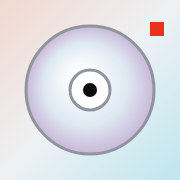
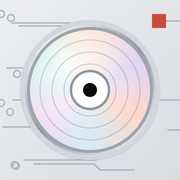
Add files via upload

diff --git a/index.html b/index.html
@@ -1964,11 +1964,33 @@ window.addEventListener('drop', e => { e.preventDefault(); if (e.dataTransfer &&
 document.addEventListener('visibilitychange', () => { if (!document.hidden && !audio.paused) wakeOn(); });
 function drawIcon(S) {
   const c = document.createElement('canvas'); c.width = c.height = S; const g = c.getContext('2d'); g.scale(S / 180, S / 180);
-  const bgG = g.createLinearGradient(0, 0, 180, 180); bgG.addColorStop(0, '#f1d9d0'); bgG.addColorStop(.5, '#eef1f4'); bgG.addColorStop(1, '#bfe6ee'); g.fillStyle = bgG; g.fillRect(0, 0, 180, 180);
-  const rg = g.createRadialGradient(80, 76, 8, 90, 90, 64); rg.addColorStop(0, '#ffffff'); rg.addColorStop(.6, '#dfe9f2'); rg.addColorStop(1, '#c9b8d8');
-  g.fillStyle = rg; g.beginPath(); g.arc(90, 90, 64, 0, 6.283); g.fill(); g.strokeStyle = '#8f959e'; g.lineWidth = 3; g.stroke();
-  g.fillStyle = '#fff'; g.beginPath(); g.arc(90, 90, 20, 0, 6.283); g.fill(); g.stroke(); g.fillStyle = '#0b0b0e'; g.beginPath(); g.arc(90, 90, 7, 0, 6.283); g.fill();
-  g.fillStyle = '#cb4a36'; g.fillRect(150, 22, 14, 14);
+  const bg = g.createLinearGradient(0, 0, 180, 180); bg.addColorStop(0, '#eceef1'); bg.addColorStop(1, '#d9dce1'); g.fillStyle = bg; g.fillRect(0, 0, 180, 180);
+  /* thin ZIIION-style traces and ring vias, like the original board */
+  g.strokeStyle = '#b3b8c0'; g.lineWidth = 1.5; g.lineCap = 'round'; g.lineJoin = 'round';
+  const tr = (pts, via) => { g.beginPath(); pts.forEach((q, i) => i ? g.lineTo(q[0], q[1]) : g.moveTo(q[0], q[1])); g.stroke(); if (via) { const q = pts[pts.length - 1]; g.beginPath(); g.arc(q[0], q[1], 3, 0, 6.283); g.stroke(); } };
+  tr([[12, 23], [75, 23]]); tr([[19, 26], [76, 26]]);
+  tr([[7, 68], [31, 68]]); tr([[13, 100], [32, 100]]); tr([[3, 127], [34, 127]]);
+  tr([[24, 160], [96, 160]]); tr([[34, 164], [94, 164], [100, 170], [134, 170]]);
+  tr([[166, 21], [180, 21]]);
+  const ring = (x, y) => { g.beginPath(); g.arc(x, y, 3.4, 0, 6.283); g.stroke(); };
+  ring(1, 14); ring(11, 18); ring(17, 74); ring(1, 103); ring(10, 112); ring(16, 166); ring(14.5, 165);
+  tr([[160, 100], [180, 100]]); tr([[168, 130], [180, 130]]);
+  /* bezel with soft halo, as in ZIIION */
+  g.save(); g.shadowColor = 'rgba(40,50,62,.28)'; g.shadowBlur = 10; g.shadowOffsetY = 3;
+  g.fillStyle = '#d3d6dc'; g.beginPath(); g.arc(90, 90, 70, 0, 6.283); g.fill(); g.restore();
+  const rim = g.createLinearGradient(40, 30, 140, 150); rim.addColorStop(0, '#fdfdfe'); rim.addColorStop(.5, '#8f959e'); rim.addColorStop(1, '#eef0f2');
+  g.fillStyle = rim; g.beginPath(); g.arc(90, 90, 65, 0, 6.283); g.fill();
+  g.fillStyle = '#9ea4ad'; g.beginPath(); g.arc(90, 90, 63, 0, 6.283); g.fill();
+  /* the disc: iridescent face, spindle hub */
+  const cg = g.createConicGradient ? g.createConicGradient(.5, 90, 90) : g.createLinearGradient(30, 30, 150, 150);
+  [['#ffd8c8', 0], ['#d4eaf6', .17], ['#f3dcf6', .34], ['#c9f0e8', .5], ['#ffe2d2', .67], ['#ded4f6', .84], ['#ffd8c8', 1]].forEach(([col, t]) => cg.addColorStop(t, col));
+  g.fillStyle = cg; g.beginPath(); g.arc(90, 90, 60, 0, 6.283); g.fill();
+  const hl = g.createRadialGradient(68, 64, 4, 80, 78, 62); hl.addColorStop(0, 'rgba(255,255,255,.75)'); hl.addColorStop(1, 'rgba(255,255,255,0)'); g.fillStyle = hl; g.beginPath(); g.arc(90, 90, 60, 0, 6.283); g.fill();
+  g.strokeStyle = 'rgba(120,128,140,.35)'; g.lineWidth = 1; for (const r of [26, 38, 50]) { g.beginPath(); g.arc(90, 90, r, 0, 6.283); g.stroke(); }
+  g.strokeStyle = '#8f959e'; g.lineWidth = 2.4; g.fillStyle = '#fff'; g.beginPath(); g.arc(90, 90, 19, 0, 6.283); g.fill(); g.stroke();
+  g.fillStyle = '#0b0b0e'; g.beginPath(); g.arc(90, 90, 7, 0, 6.283); g.fill();
+  g.strokeStyle = '#b3b8c0'; g.lineWidth = 1.5; g.beginPath(); g.moveTo(166, 21); g.lineTo(180, 21); g.stroke();
+  g.fillStyle = '#cb4a36'; g.fillRect(152, 14, 14, 14);
   return c;
 }
 

diff --git a/sw.js b/sw.js
@@ -1,5 +1,5 @@
 /* IRIDESCENT: tiny offline cache. Put next to index.html. */
-const C = 'iridescent-v25';
+const C = 'iridescent-v30';
 self.addEventListener('install', e => { e.waitUntil(caches.open(C).then(c => c.addAll(['./', './index.html', './manifest.webmanifest', './icons/icon-180.png', './icons/icon-512.png', './icons/icon-32.png'])).then(() => self.skipWaiting())); });
 self.addEventListener('activate', e => { e.waitUntil(caches.keys().then(ks => Promise.all(ks.filter(k => k !== C).map(k => caches.delete(k)))).then(() => self.clients.claim())); });
 self.addEventListener('fetch', e => {

diff --git a/README.md b/README.md
@@ -61,7 +61,7 @@ For offline use and installation, host the folder (for example on GitHub Pages) 
 
 ## Icon
 
-The home-screen icon is a simple iridescent disc with a white hub and a red accent square on a frosted gradient. It is drawn at runtime by the page; PNG exports are in `icons/` (512, 180, 32 px), and the manifest uses them.
+The home-screen icon is an iridescent disc in a bezel with a white hub and a red accent square, on a frosted board with thin PCB traces and ring vias, in the ZIIION style. It is drawn at runtime by the page; PNG exports are in `icons/` (512, 180, 32 px), and the manifest uses them.
 
 ## Notes
 
